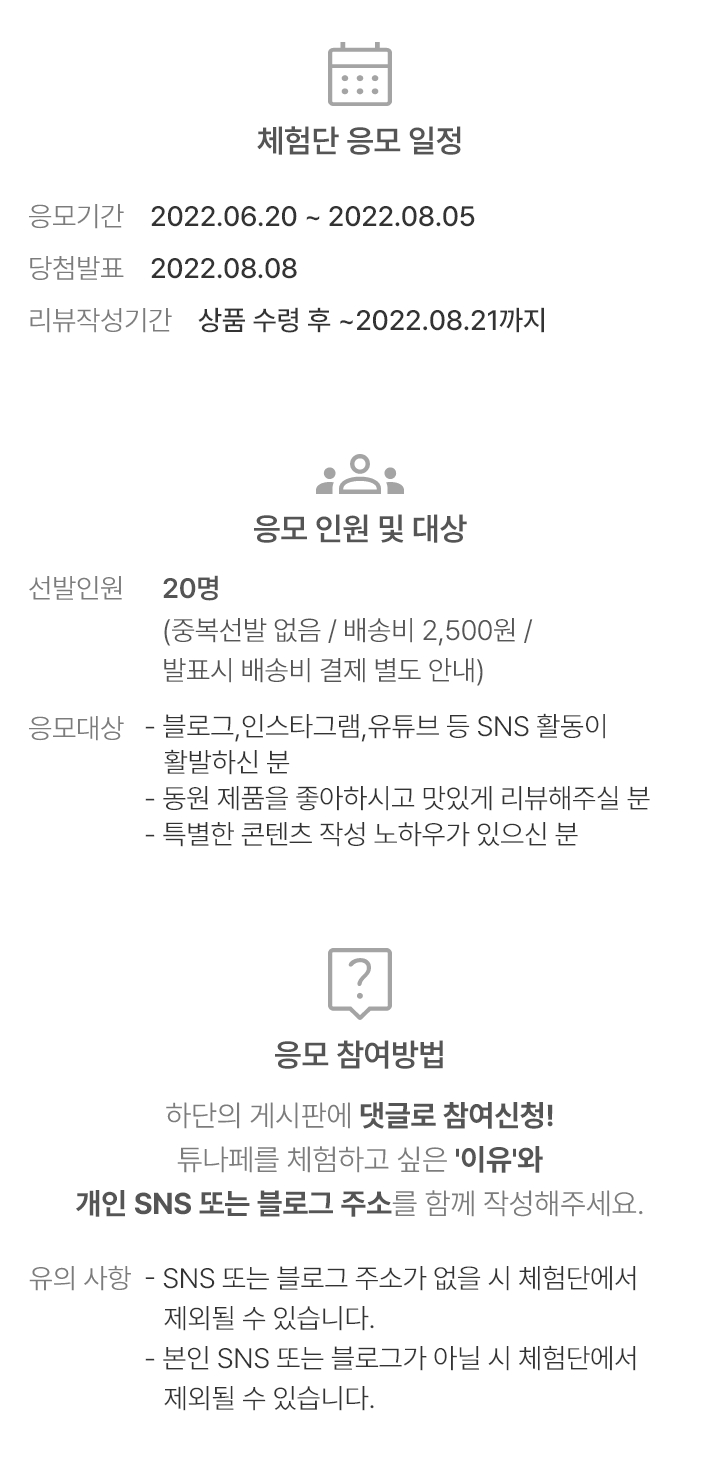
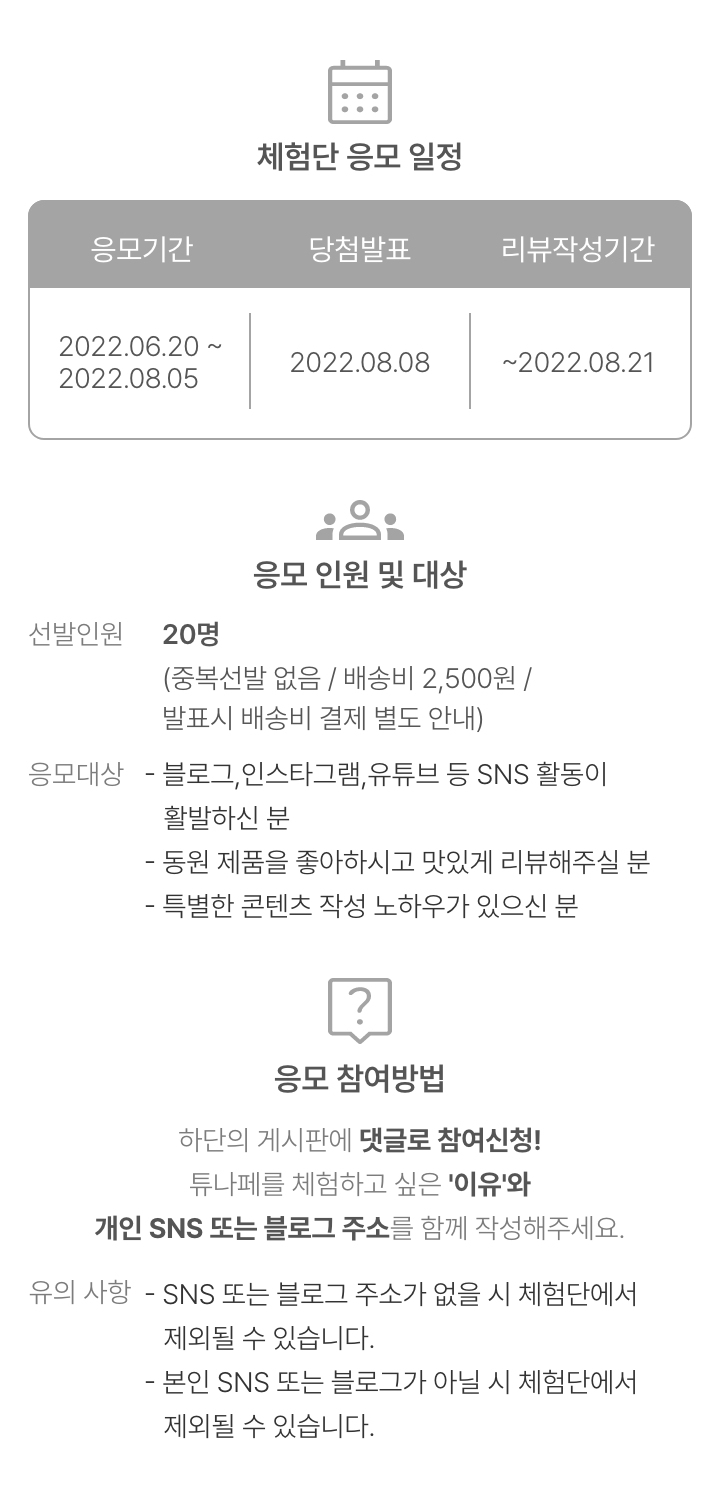
20220803 commit

diff --git a/event/second.html b/event/second.html
@@ -41,23 +41,6 @@
                 </div>
                 <a href="#" class="share-btn"><span class="material-symbols-outlined">share</span></a>
             </div>
-            <div class="period-box inner">
-                <ul>
-                    <li>
-                        <span class="period-text">응모기간</span>
-                        <span  class="period-date">2022.06.20 ~ 2022.08.05</span>
-                    </li>
-                    <li>
-                        <span class="period-text">당첨발표</span>
-                        <span class="period-date">2022.08.08</span>
-                    </li>
-                    <li>
-                        <span class="period-text">리뷰작성기간</span>
-                        <span class="period-date">~2022.08.21</span>
-                    </li>
-                </ul>
-                <p>*자세한 응모방법 및 리뷰 작성 안내사항은 하단을 참고하세요.</p>
-            </div>
             <section class="join-banner">
                 <img src="../images/join-banner-01.jpg" alt="체험단 이벤트 20명 모집, 체험상품 동원참치 튜나페 고소마요 3개, 매콤마요 3개">
             </section>
